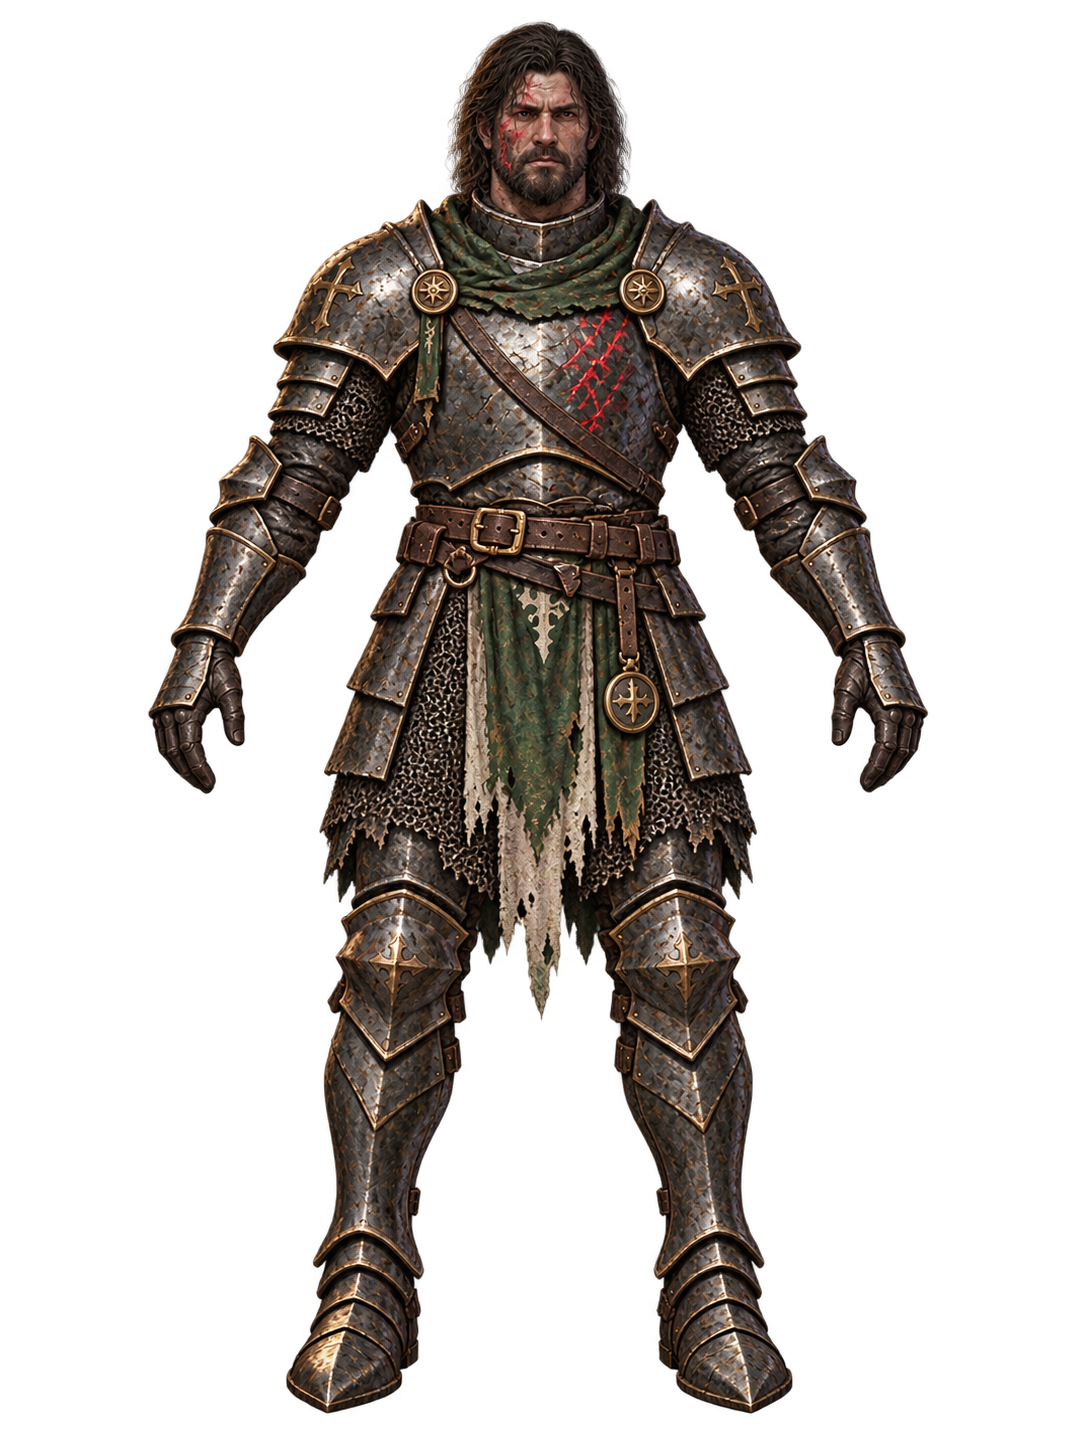
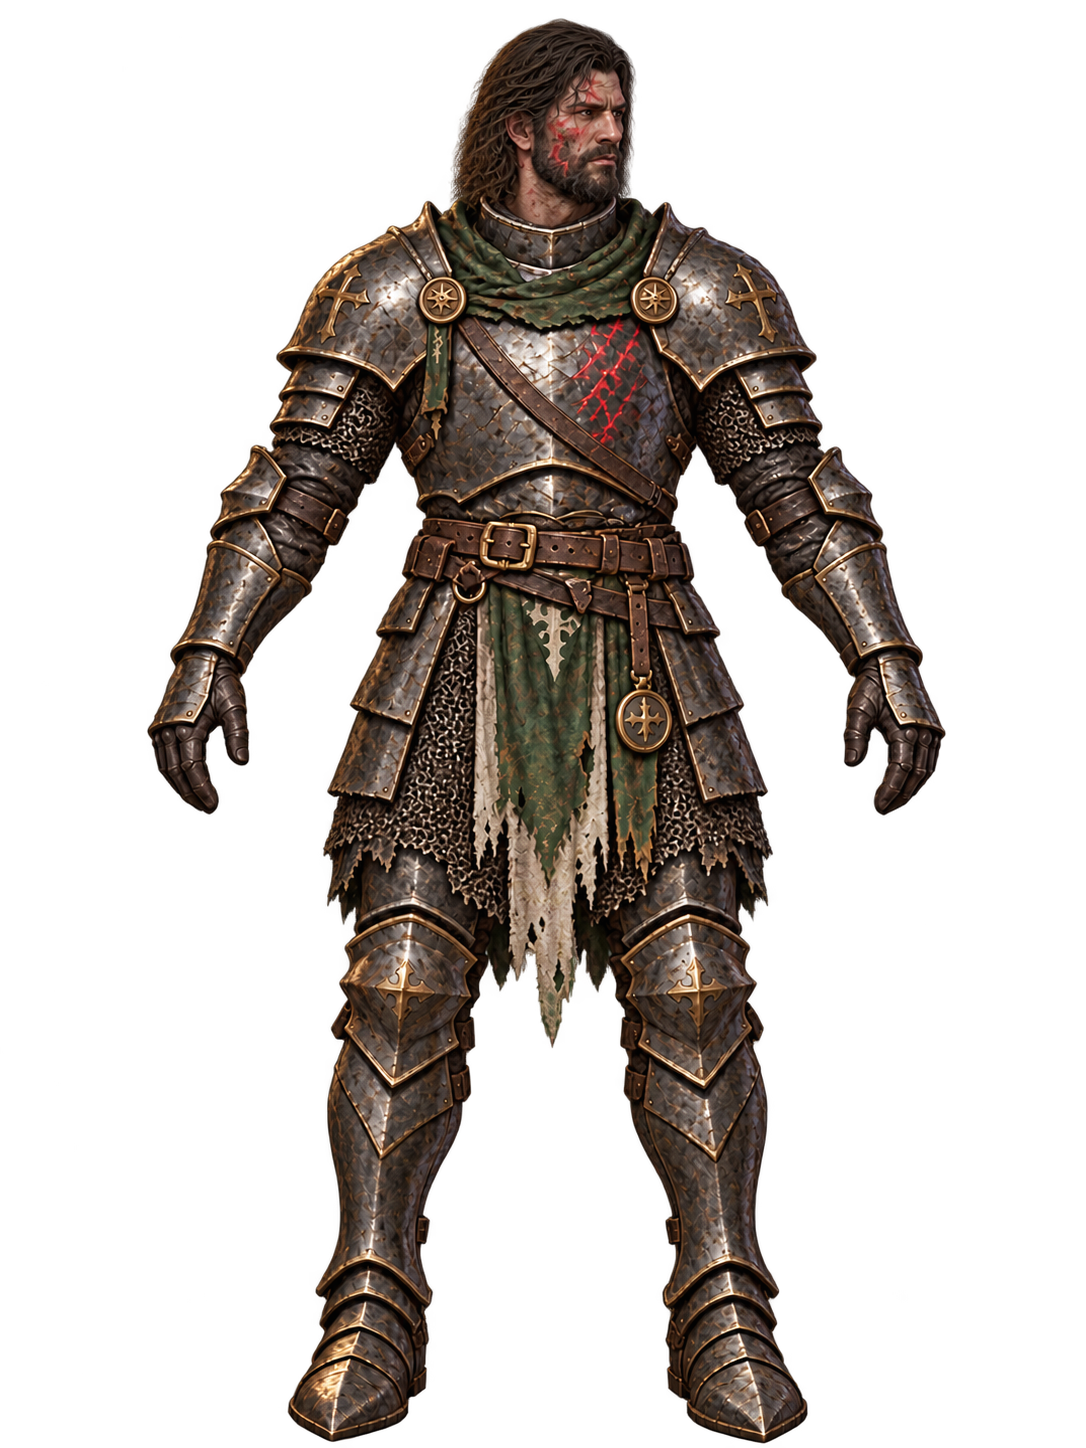
Add files via upload

Changed region(s): [[0.1215, 0.0, 0.8812, 1.0]]

diff --git a/web/public/art-test/style.css b/web/public/art-test/style.css
@@ -47,7 +47,7 @@
 .part-upperArm_L:after,.part-upperArm_R:after,.part-lowerArm_L:after,.part-lowerArm_R:after,.part-thigh_L:after,.part-thigh_R:after,.part-shin_L:after,.part-shin_R:after{bottom:-16px;width:80%;height:30px}
 .part-torso:before{content:"";position:absolute;z-index:-2;left:-17px;right:-17px;top:3px;height:31px;border:1px solid #89764d;border-radius:45%;background:linear-gradient(90deg,#252b28,#606860 22% 78%,#252b28);box-shadow:inset 0 1px #fff2}.part-torso:after{content:"";position:absolute;z-index:-1;left:19%;right:19%;bottom:-12px;height:25px;border:1px solid #88764e;border-radius:38%;background:linear-gradient(90deg,#242a26,#596159,#202622)}
 .part-pelvis:before{content:"";position:absolute;z-index:-1;left:7%;right:7%;top:-12px;height:24px;border:1px solid #88764e;border-radius:45%;background:#303732}
-.paper-rig[data-action="guard"] .part-shield{z-index:12;translate:39px -106px;scale:1.08;filter:brightness(1.16) drop-shadow(0 0 8px #85d8ea88)}.paper-rig[data-action="perfect_guard"] .part-shield{z-index:12;translate:45px -112px;scale:1.1;filter:brightness(1.2) drop-shadow(0 0 10px #85d8eaaa)}.paper-rig[data-action="guard"] .part-weapon,.paper-rig[data-action="perfect_guard"] .part-weapon{z-index:2;filter:brightness(.7)}
+.paper-rig[data-action="guard"] .part-shield{z-index:12;translate:13px -24px;scale:1.08;filter:brightness(1.16) drop-shadow(0 0 8px #85d8ea88)}.paper-rig[data-action="perfect_guard"] .part-shield{z-index:12;translate:18px -29px;scale:1.1;filter:brightness(1.2) drop-shadow(0 0 10px #85d8eaaa)}.paper-rig[data-action="guard"] .part-weapon,.paper-rig[data-action="perfect_guard"] .part-weapon{z-index:2;filter:brightness(.7)}
 .paper-rig[data-action="attack_01"] .part-weapon,.paper-rig[data-action="attack_02"] .part-weapon,.paper-rig[data-action="break_strike"] .part-weapon{z-index:12}.paper-rig[data-action="attack_01"] .part-shield,.paper-rig[data-action="attack_02"] .part-shield,.paper-rig[data-action="break_strike"] .part-shield{z-index:2;filter:brightness(.78)}
 @media(max-width:700px){.paper-rig{--rig-scale-x:1.03;--rig-scale-y:1.03}}
 

diff --git a/web/public/art-test/index.html b/web/public/art-test/index.html
@@ -5,10 +5,10 @@
   <meta name="viewport" content="width=device-width,initial-scale=1">
   <meta name="description" content="深渊远征美术与战斗特效实验室">
   <title>深渊美术实验室 · Art FX Beta</title>
-  <link rel="stylesheet" href="/art-test/style.css?v=0.14.1-limb-continuity">
-  <script src="/art-test/actors.js?v=0.14.1-limb-continuity" defer></script>
-  <script src="/art-test/rig.js?v=0.14.1-limb-continuity" defer></script>
-  <script src="/art-test/lab.js?v=0.14.1-limb-continuity" defer></script>
+  <link rel="stylesheet" href="/art-test/style.css?v=0.14.2-shield-grip">
+  <script src="/art-test/actors.js?v=0.14.2-shield-grip" defer></script>
+  <script src="/art-test/rig.js?v=0.14.2-shield-grip" defer></script>
+  <script src="/art-test/lab.js?v=0.14.2-shield-grip" defer></script>
 </head>
 <body>
   <main>
